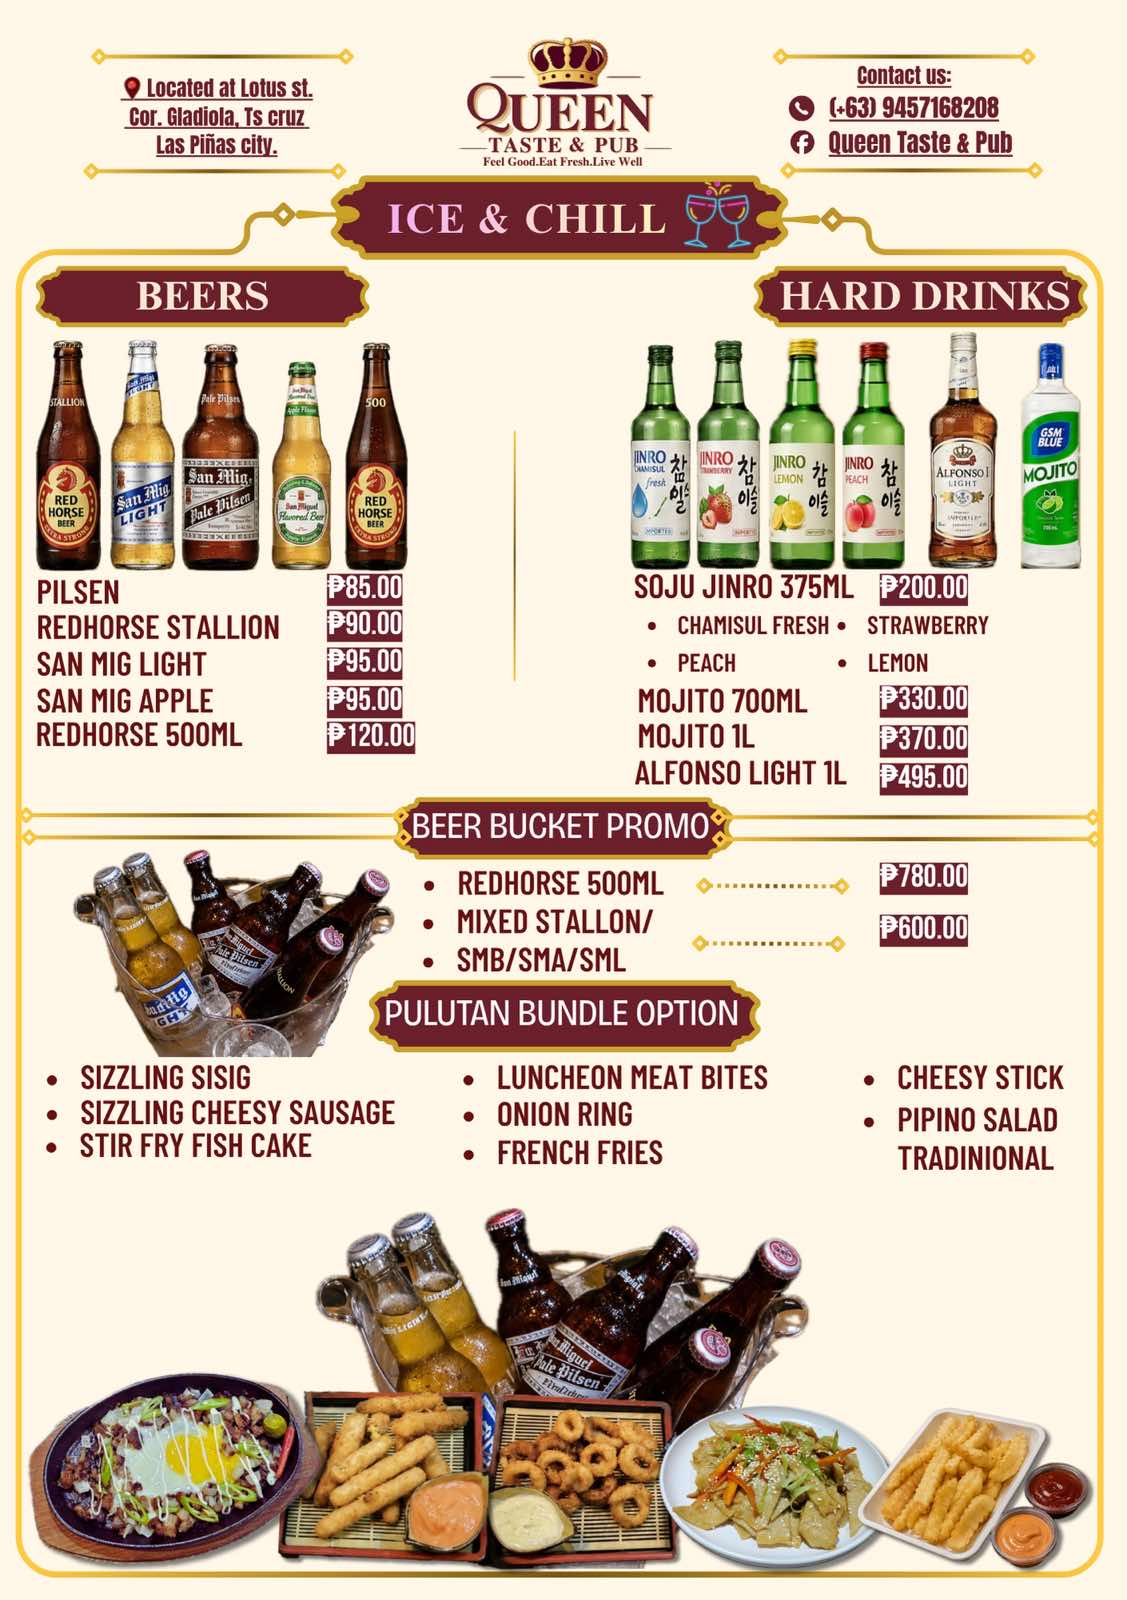
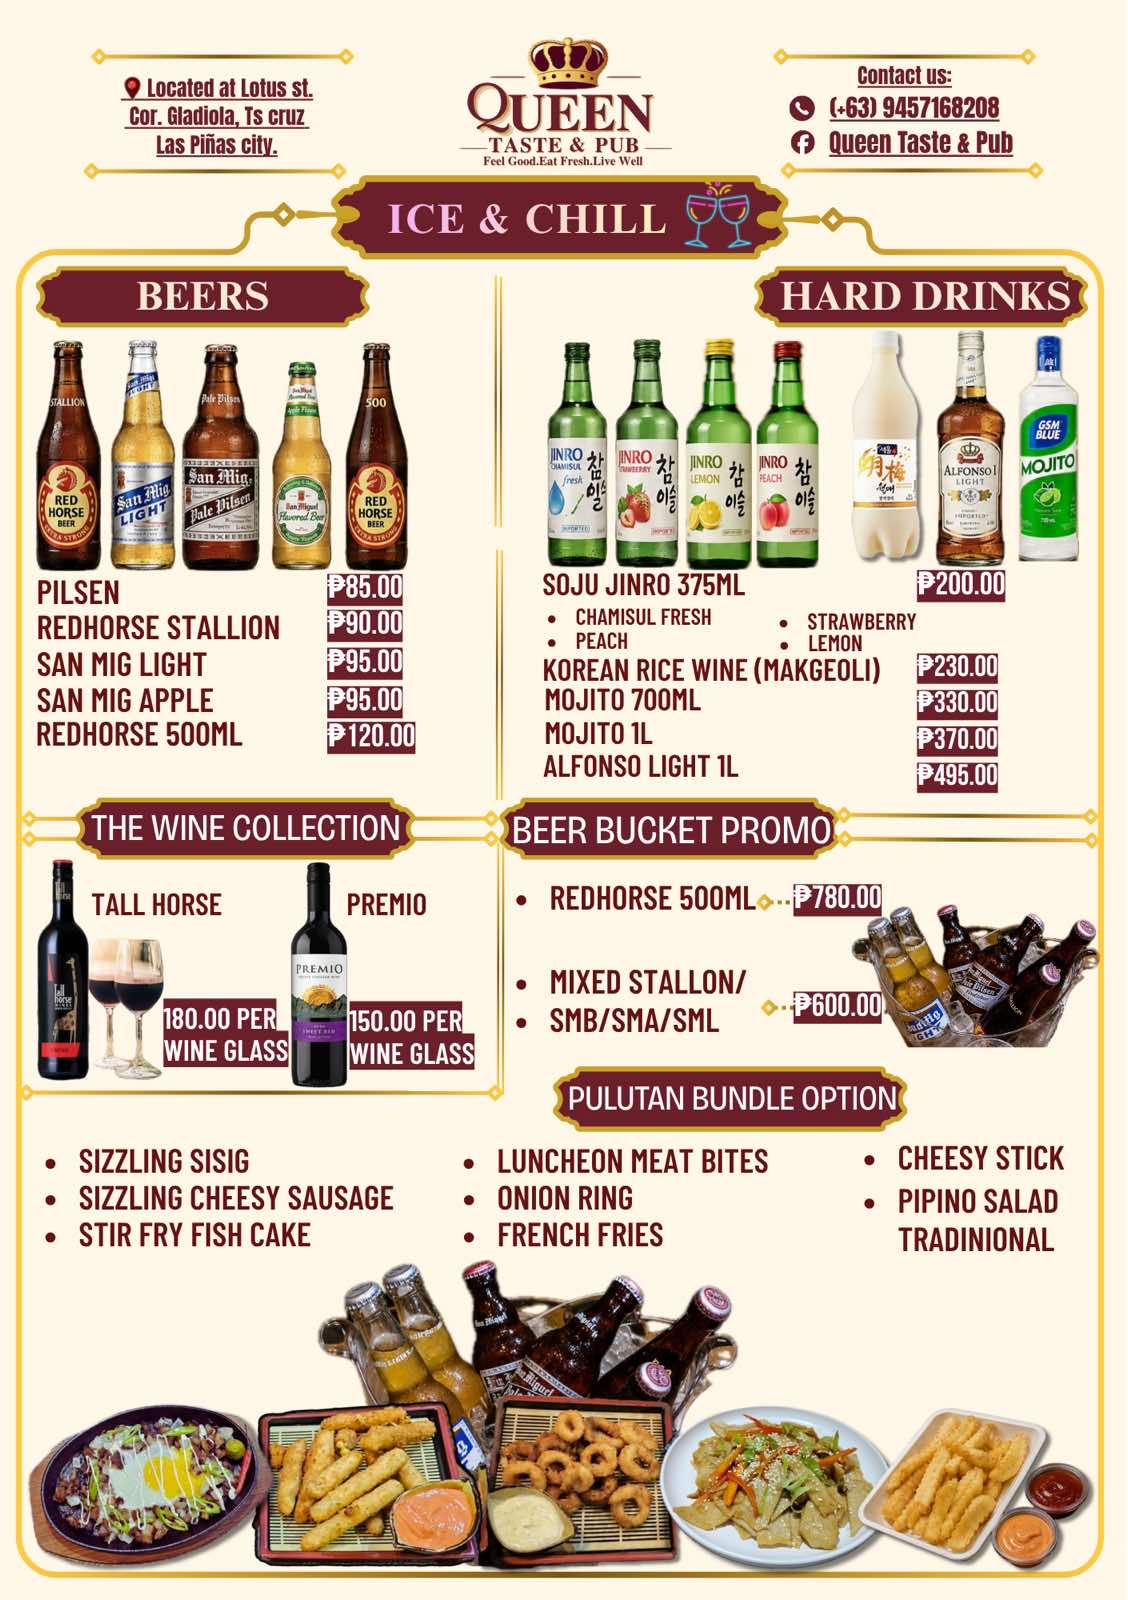
Update Siesta and Ice & Chill posters: radish 120g, makgeoli, wine collection

diff --git a/index.html b/index.html
@@ -10,7 +10,7 @@
   <link rel="preconnect" href="https://fonts.googleapis.com">
   <link rel="preconnect" href="https://fonts.gstatic.com" crossorigin>
   <link href="https://fonts.googleapis.com/css2?family=Oswald:wght@300;400;500&family=Playfair+Display:ital,wght@0,600;1,500&display=swap" rel="stylesheet">
-  <link rel="stylesheet" href="style.css?v=202609242250" />
+  <link rel="stylesheet" href="style.css?v=202609252159" />
 </head>
 <body>
 
@@ -94,6 +94,6 @@
     <div class="lb-dots" id="lbDots" aria-hidden="true"></div>
   </div>
 
-  <script src="script.js?v=202609242250"></script>
+  <script src="script.js?v=202609252159"></script>
 </body>
 </html>

diff --git a/script.js b/script.js
@@ -17,7 +17,7 @@ const PAGES = [
   { group: 'eat', title: 'Sizzling Plates',   sub: 'Sisig, pork chop, barkada platters',  file: 'images/sizzling.jpg' },
   { group: 'eat', title: 'Siesta',            sub: 'Tteokbokki, kimbap, mandu, fries',    file: 'images/siesta.jpg' },
 
-  { group: 'chill', title: 'Ice &amp; Chill', sub: 'Beers, soju, mojito and pulutan bundles', file: 'images/ice-chill.jpg' },
+  { group: 'chill', title: 'Ice &amp; Chill', sub: 'Beers, soju, makgeoli, wine and pulutan bundles', file: 'images/ice-chill.jpg' },
 ];
 
 const gridSip     = document.getElementById('gridSip');
